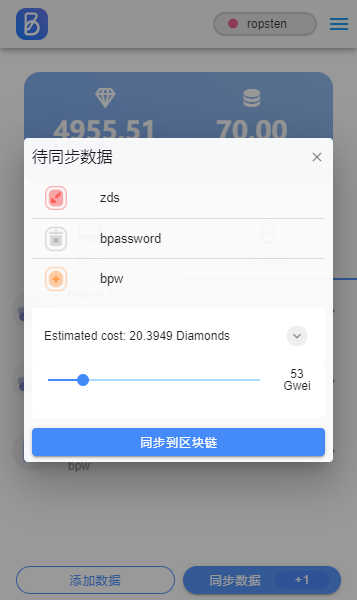
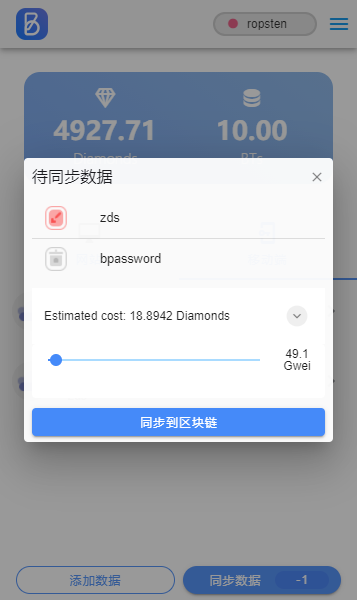
update docs

Changed region(s): [[0.0616, 0.51, 0.9552, 0.81], [0.0616, 0.18, 0.9552, 0.48], [0.8319, 0.96, 0.8627, 0.99]]

diff --git a/plug_help.md b/plug_help.md
@@ -84,10 +84,23 @@
 
 ### 查看账号下钻石和BT余额
 
-![Image](help_plug/user_guide_06.png)
+![Image](help_plug/plug_wallet_index.png)
 
 
-### 同步本地数据到区块链
+### 会员充值
+
+![Image](help_plug/plug_recharge_01.png) ![Image](help_plug/plug_recharge_regist.png)
+
+
+### 同步数据
+
+![Image](help_plug/plug_pull_data.png) ![Image](help_plug/plug_push_data.png)
+
+    同步本地数据到区块链上需要消耗一定量的钻石费用.钻石费用可以在一定区间调节,注意过低的钻石费用可能会导致
+提交失败.
+
+![Image](help_plug/plug_push_data_01.png) ![Image](help_plug/plug_push_data_03.png)
+
 
 
 ![Image](help_plug/user_guide_06.png)
